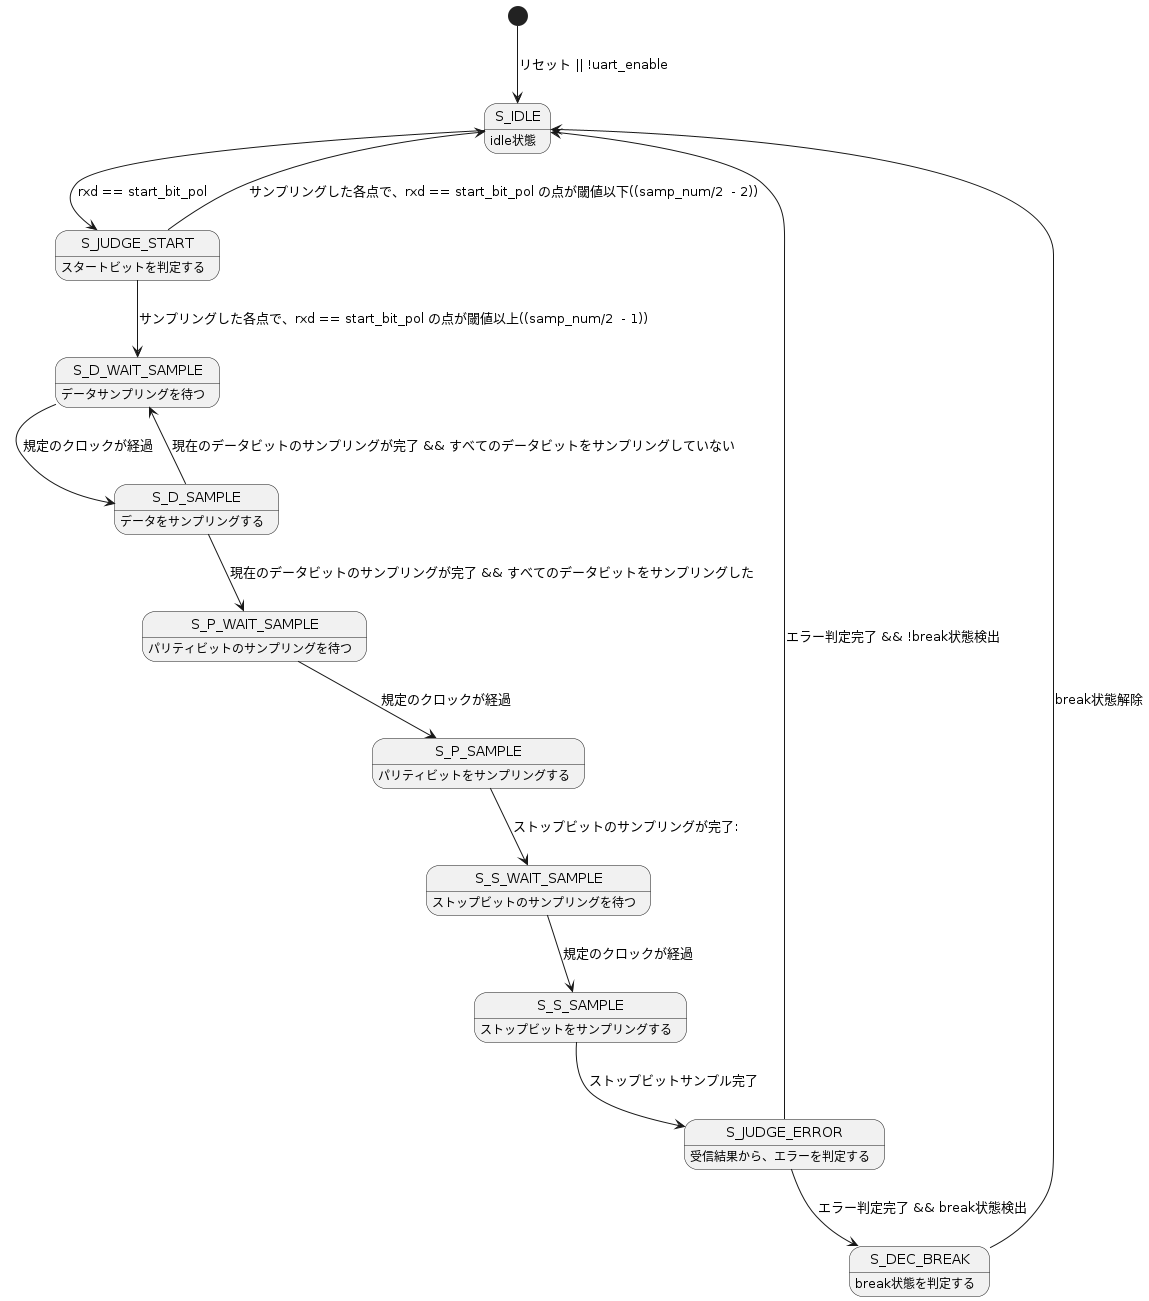
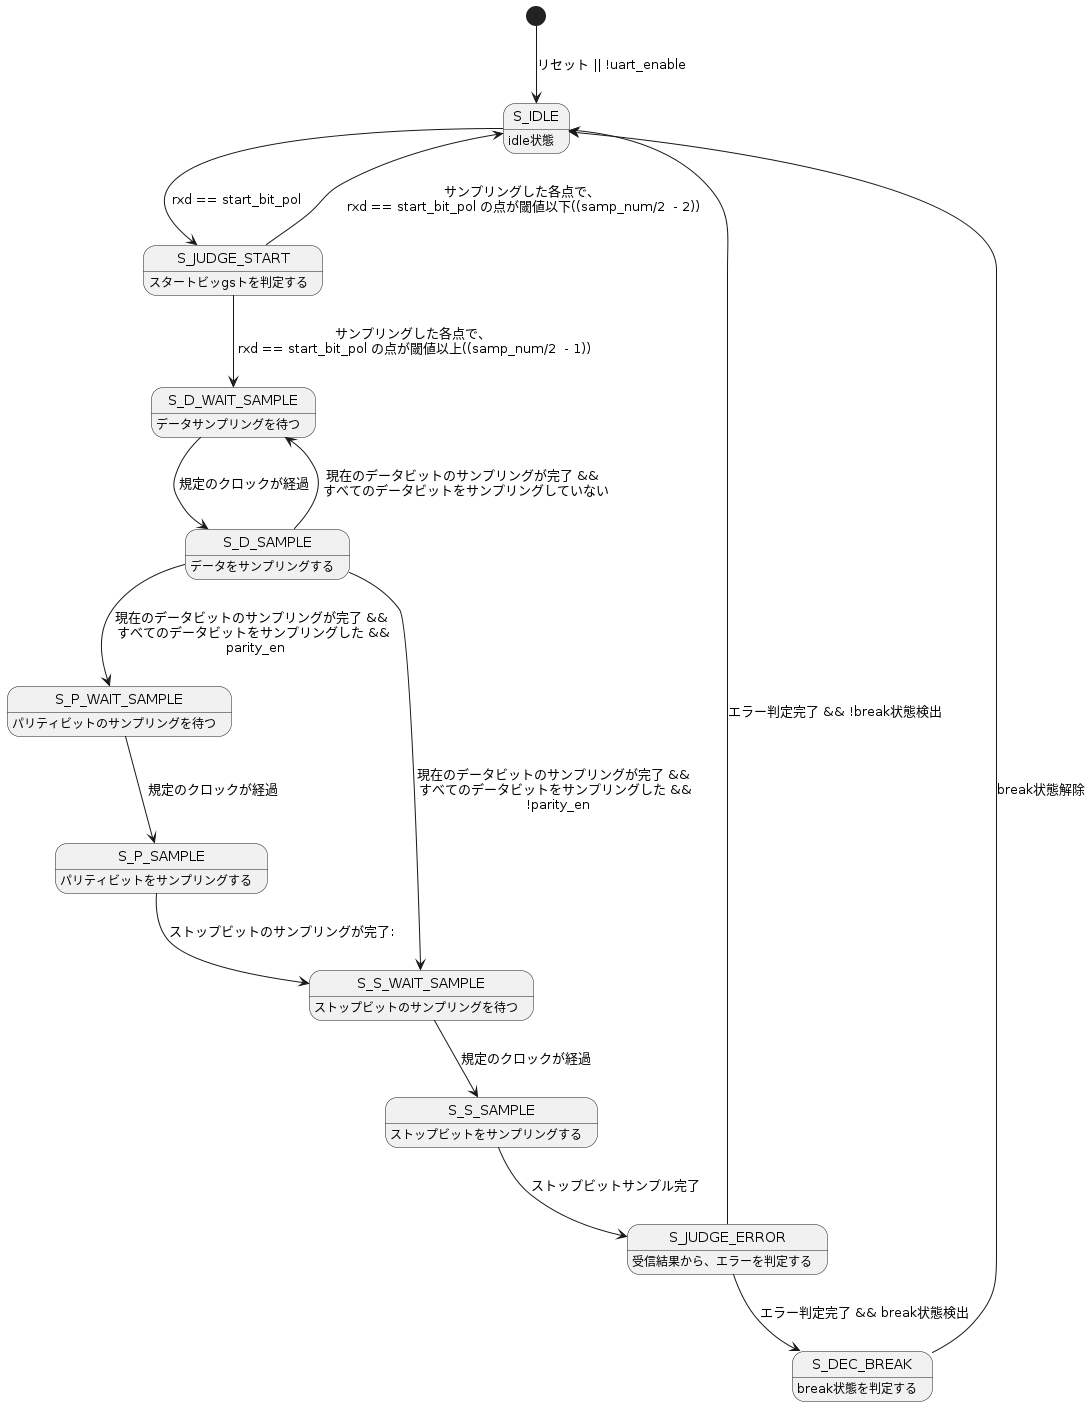
[update] uart doc

diff --git a/peripheral/uart/doc/designspec.md b/peripheral/uart/doc/designspec.md
@@ -99,6 +99,8 @@ fifoのステータスを示します。
 | ビット  | フィールド名  | RW | init | 詳細          |
 |---------|---------------|----|------|---------------|
 | [31:13] | reserved      | -  | -    |               |
+| [16]    | rx_busy       | R  | 0    | break検出状態 |
+| [15:13] | reserved      | -  | -    |               |
 | [12]    | rx_busy       | R  | 0    | rx busy       |
 | [11:9]  | reserved      | -  | -    |               |
 | [8]     | tx_busy       | R  | 0    | tx busy       |
